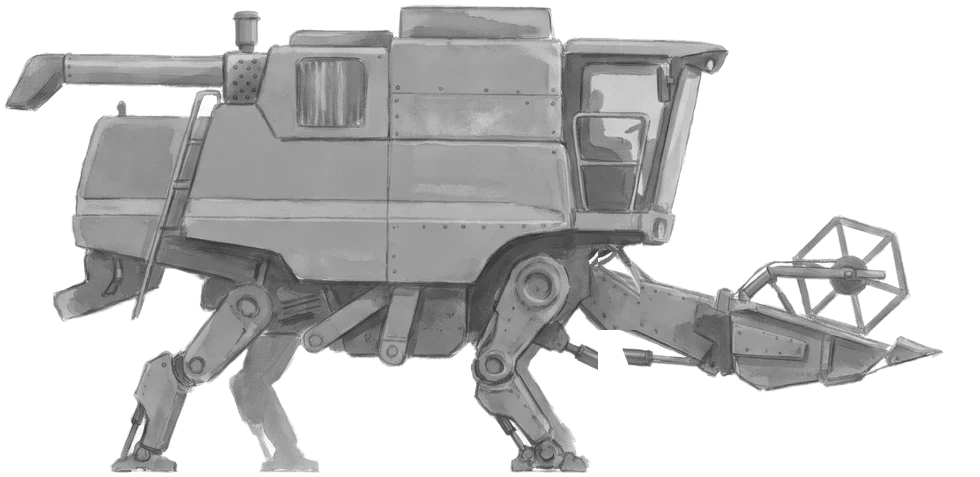
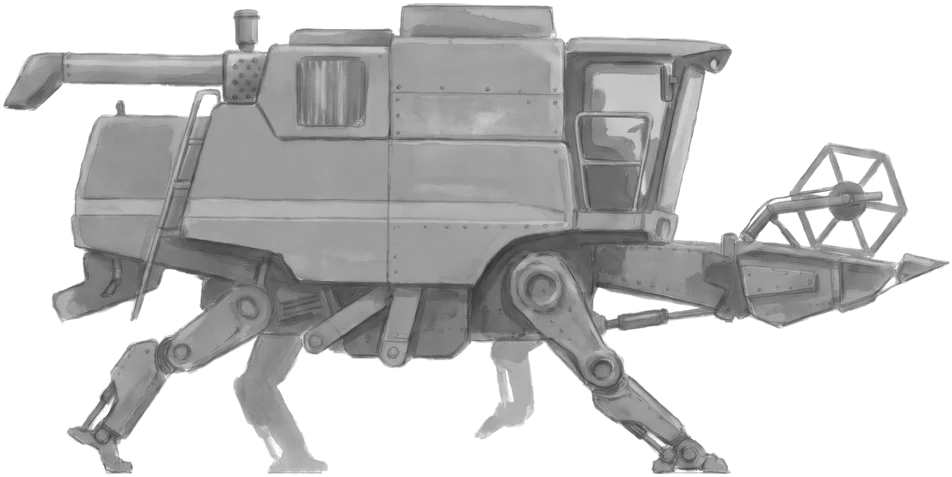
Build 11: the far machine in its own mid-stride pose
Claude-Session: https://claude.ai/code/session_017HrTSFMogTubH951N2ZiHS

diff --git a/slough.js b/slough.js
@@ -194,7 +194,7 @@ const SL = (() => {
   // build 9: flat SILHOUETTES (one tone, no inner detail), two poses (mech.webp header down, mech2.webp header lifted)
   function loadMech() { MECHS = []; [['mech', -298, .2, 1.85, .7, 1], ['mech2', 128, .13, 1.75, .8, 1]].forEach(m => { const im = new Image(); im.onload = () => { const c = mk(im.width, im.height), k = c.getContext('2d');
       k.drawImage(im, 0, 0); k.globalCompositeOperation = 'source-in'; k.fillStyle = css(tone(m[4])); k.fillRect(0, 0, c.width, c.height);
-      MECHS.push({ x: m[1], p: m[2], s: m[3], b: { c, k: im.height / 560, x0: -530, y0: -556 } }); MECHS.sort((u, v) => u.p - v.p); }; im.src = 'assets/' + m[0] + '.webp?v=9'; }); }
+      MECHS.push({ x: m[1], p: m[2], s: m[3], b: { c, k: im.height / 560, x0: -530, y0: -556 } }); MECHS.sort((u, v) => u.p - v.p); }; im.src = 'assets/' + m[0] + '.webp?v=11'; }); }
   // build 9: a diffuse mist of its own (soft blobs, wrapping sideways), laid over the feet of the far things
   let FARMIST = null;
   function farMist() { if (FARMIST) return FARMIST; const c = mk(512, 96), k = c.getContext('2d'); let sd = 41; const rnd = () => (sd = (sd * 16807) % 2147483647) / 2147483647;

diff --git a/index.html b/index.html
@@ -202,7 +202,7 @@ body.portrait:not(.playing) #rot{display:none}
   </div>
   <button id="snd" aria-label="Sound on or off">♪</button>
   <button id="autoWalk" aria-label="He walks on by himself"><svg viewBox="0 0 24 24"><path d="M5 6l6 6-6 6M12 6l6 6-6 6"/></svg></button>
-  <div id="build">build 10 · Nov 27 2026</div>
+  <div id="build">build 11 · Nov 27 2026</div>
 </div></div>
 <div id="rot">Turn your phone sideways for a bigger picture</div>
 <div id="opening"><div class="ot">The Pilgrim&#8217;s Progress<div class="os">Touch to open the book</div></div></div>
@@ -2960,7 +2960,7 @@ document.getElementById('on2').onclick = () => SL.on ? go3() : HL.on ? go5() : g
   for (const [who, txt] of INTRO) vox(who, txt);          // the first words, ready before Begin is pressed
 })();
 </script>
-<script src="slough.js?v=10"></script>
+<script src="slough.js?v=11"></script>
 <script src="hill.js?v=662"></script>
 <script src="rooms.js?v=2"></script>
 <script src="heaven.js?v=547"></script>

diff --git a/CLAUDE.md b/CLAUDE.md
@@ -34,6 +34,8 @@ This is a FRESH START (owner, Nov 26 2026: "we need an entire transformation - n
 
 **Build 10 (Nov 27 2026): THE PLAIN COMPOSED, NOTHING OVERLAPPING (owner: "Trees and mechs should not overlap - let's get artistic composure of elements - seems slapped in there").** Measured first: on the plain the camera's `cx` runs from -1590 to about -1000 at zoom 1, so a thing at parallax p slides 590 x p screen units over the walk; places were then chosen so no outlines meet at any point. One picture in three parts: ONE tree framing the left (a `GHOSTS` entry with a 5th value, `pl`: x -1075, p .5; it slides out of the picture as he walks), the near machine in the middle (`MECHS` x -298: its middle from 500 to 382 of 960), the far machine on the right (x 128), the far light between the two machines. The mire's ghost trees (no `pl`) are not drawn on the plain at all; they come in as the machines fade (the same fade, `cx` -1300 to -1000). **Rule: a far thing's place is chosen from the camera's whole range and its parallax, never by eye at one moment; things at different parallax need room to slide.** Nothing spent.
 
+**Build 11 (Nov 27 2026): THE FAR MACHINE IN A REAL SECOND POSE (owner: "Yes second picture please"; one `gemini-3-pro-image` picture, 16:9 at 2K, about 15 cents, right first time).** Given the first machine's picture and asked for the SAME machine mid-stride (front leg reaching forward, rear leg stretched back, a far foot lifted, the header carried up off the ground): cut as before into `assets/mech2.webp` (952 x 477, the same height as `mech.webp`, so the two are one scale), replacing build 9's code-turned header. The pipe stayed out behind though asked folded (fine as a silhouette). Spent: about 15 cents.
+
 **Testing (before every push):** `python3 -m http.server 8123 &` in this repo; `NODE_PATH=$(npm root -g) node tools/playtest.js 1` (also 2, 3, 5), ONE AT A TIME (run four at once and a page can miss a script); a syntax check of every script with `new Function`. At build 2 all four reach their end cards.
 
 **Known leftovers of the old game, to clear as each part is rebuilt:** the title is still the 1678 book; the page's title and Home Screen names say "Pilgrim's Progress"; the editor's jump list may still name the house.
@@ -91,7 +93,7 @@ What follows from it:
 ## Working with the owner
 
 - **Repo `Twhidbey/pilgrim-2100`, branch `main`. Pushing `main` publishes the game** once GitHub Pages is on (https://twhidbey.github.io/pilgrim-2100/, a minute or two). Commit and push after every change, then tell the owner it is live; a phone may show an old copy, so give the link with `?v=N`.
-- **Build stamp** (`id="build"`, bottom right): `build N · date`. Bump N on every push that changes the game, so one number means one push. **Currently build 10.** If several chats push: `git fetch` and rebase just before pushing, and take the next number.
+- **Build stamp** (`id="build"`, bottom right): `build N · date`. Bump N on every push that changes the game, so one number means one push. **Currently build 11.** If several chats push: `git fetch` and rebase just before pushing, and take the next number.
 - **SPEND AS LITTLE AS POSSIBLE.** Before any paid call: say the cost and wait for a yes; keep the running total in `HANDOFF.md`. Rough prices: a video about 56 cents, a picture about 15 cents (25 at 4K), a voice line about a cent, a music piece about 8 cents. Save in this order: do it in code first; reuse frames we have; draft on the cheaper image model; show a still before any video; get two clips from one video (backwards, back and forth); write video prompts that pass the safety filter first time (plain words: "wading", "thick sticky mud", never "drowning" or "desperate"). Free sources first: OpenGameArt for sounds (CC0 preferred, credit anything CC-BY), Wikimedia Commons originals for photographs (public domain or CC0; fetch slowly, it answers 429).
 - **Keep `CLAUDE.md` and `HANDOFF.md` updated after every change.** The repo is public: no names, emails or other personal details in notes, code or commits. The image and voice key is never printed and never in the repo.
 - **Players:** kids 7 to 10, mostly on an iPhone. Gentle: no lives, no game over, read-aloud words, short simple sentences.

diff --git a/HANDOFF.md b/HANDOFF.md
@@ -16,6 +16,7 @@
 - **Build 8:** the city in the sky over the far light is gone from the Slough's plain.
 - **Build 9:** the machines are flat silhouettes in two poses; the wavy rows are ground texture under everything; a new diffuse mist layer (see `CLAUDE.md`).
 - **Build 10:** the plain composed: one framing tree, the near machine, the light, the far machine; nothing overlaps through the walk (see `CLAUDE.md`).
+- **Build 11:** the far machine has its own painted pose, mid-stride (see `CLAUDE.md`).
 - **Next, in this order (each waits on the owner):**
   1. The world: one of the old concept page's four directions (A Fallen towers, B Rust and ash, C The green return, D Glass age) or a new one, redrawn to the art direction in `CLAUDE.md`. Show stills; build nothing first.
   2. The retelling: who and what each person and place becomes in 2100, and a first draft of the first scene's words, checked against the book file.
@@ -25,7 +26,7 @@
 
 ## Spending
 
-Running total for this project: **about $0.15** (build 5: one picture of the two machines).
+Running total for this project: **about $0.30** (build 5: one picture of the two machines; build 11: the second pose).
 
 ## Voices
 
